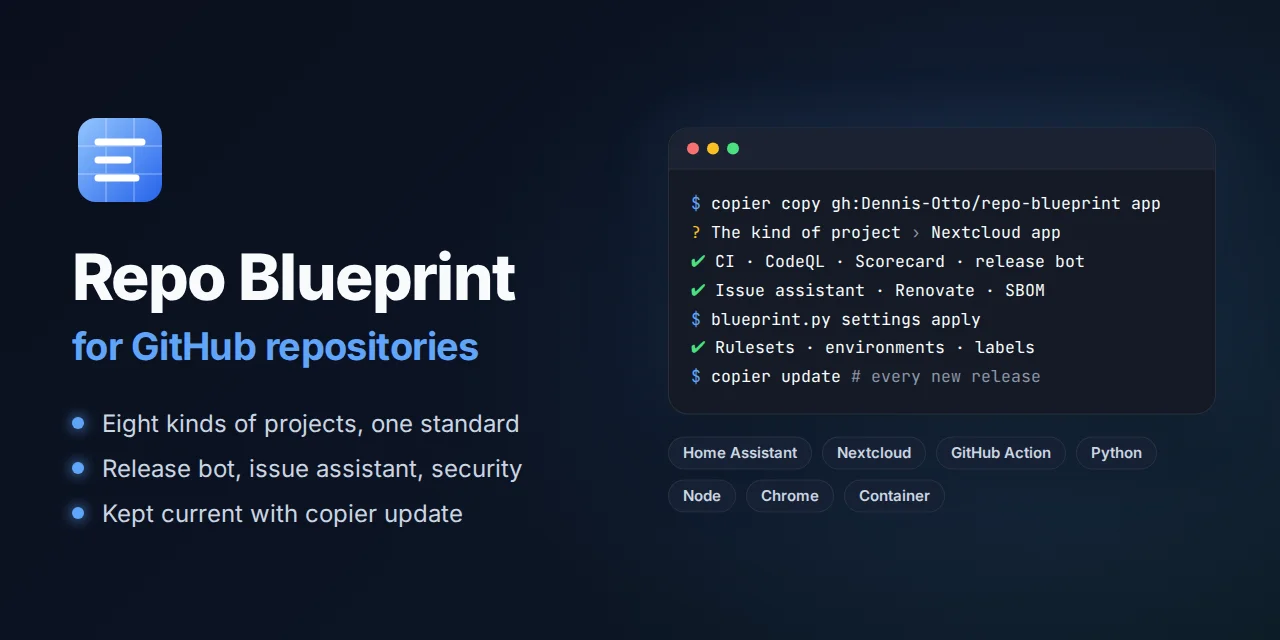
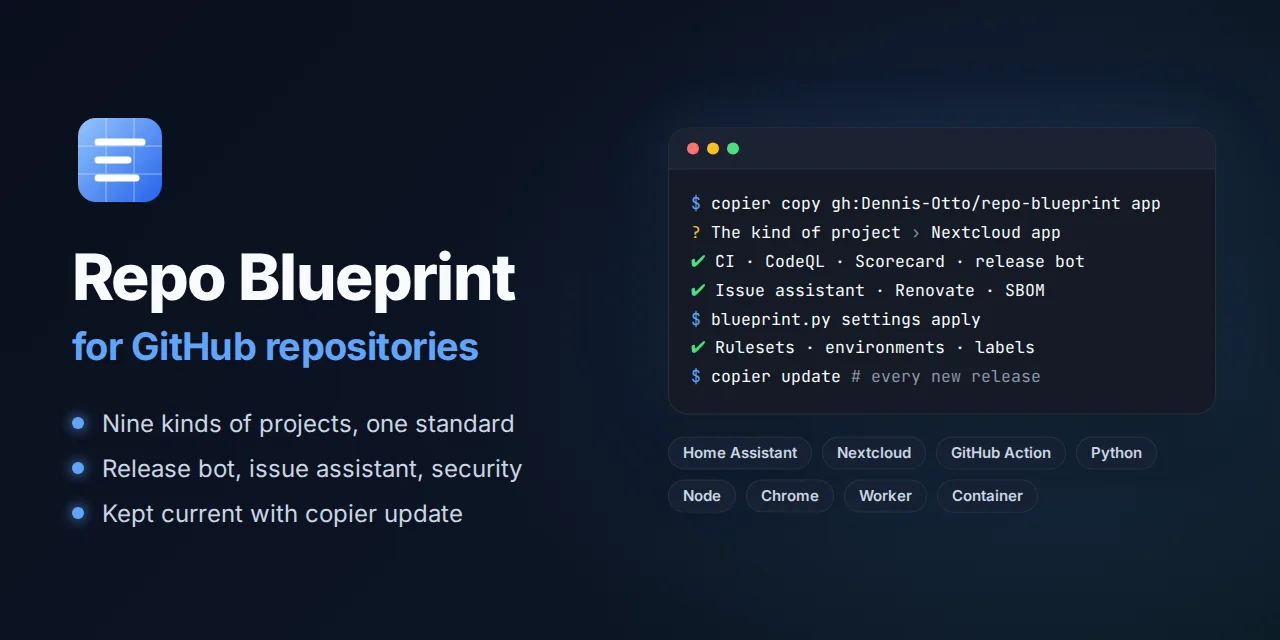
fix: skip Cloudflare's own install and keep a Worker's prerelease off traffic
- docs/releases.md sets the build variable SKIP_DEPENDENCY_INSTALL=1, so
  Workers Builds installs only with npm ci --ignore-scripts; npm run deploy
  warns when it is missing.
- A prerelease is uploaded as a version without traffic, tagged vX.Y.Z-beta.N.
- The checklist names the Cloudflare set-up as a step it can't tick off.
- The rendered Renovate config of a Worker moves Vitest and its coverage
  provider together on a major version.
- The guide names the files of a Worker for an existing repository; the kind
  pages show how a test gives the Worker a secret.
- docs/images/social-preview.webp re-rendered from the new social preview;
  release.yml names cloudflare-workers among the deliveries.

Changed region(s): [[0.0625, 0.625, 0.4062, 0.6875], [0.6562, 0.75, 0.8125, 0.7812]]

diff --git a/tests/test_template.py b/tests/test_template.py
@@ -7337,6 +7337,8 @@ def test_renovate_keeps_every_project_current(
     # The project's file extends the blueprint's, so that its own rules come last.
     assert '"local>Dennis-Otto/demo-project//.github/renovate-blueprint.json5"' in entry
     rules = (project / ".github/renovate-blueprint.json5").read_text(encoding="utf-8")
+    # Vitest and its coverage provider move to a new major version together.
+    assert ('groupName: "Vitest"' in rules) == (kind == "cloudflare-worker")
     for setting in (
         'minimumReleaseAge: "7 days"',
         "platformAutomerge: true",
@@ -13408,6 +13410,8 @@ def test_only_cloudflare_builds_and_deploys_a_worker(
         "`npm ci --ignore-scripts`",
         "`npm run deploy`",
         "npx wrangler secret put NAME",
+        "`SKIP_DEPENDENCY_INSTALL`",
+        "becomes a version without traffic",
     ):
         assert step in text, step
     assert "Chrome" not in text
@@ -13483,6 +13487,7 @@ ON_MAIN = {
     "WORKERS_CI": "1",
     "WORKERS_CI_BRANCH": "main",
     "WORKERS_CI_COMMIT_SHA": "0123456789abcdef0123456789abcdef01234567",
+    "SKIP_DEPENDENCY_INSTALL": "1",
 }
 DEPLOY = ["--no", "--", "wrangler", "deploy", "--tag"]
 UPLOAD = ["--no", "--", "wrangler", "versions", "upload", "--message"]
@@ -13494,8 +13499,8 @@ LONG = "feat: " + "a" * 120
 @pytest.mark.parametrize(
     ("subject", "version", "variables", "called", "said"),
     [
-        # The merge of a release pull request goes live, also a prerelease, and also
-        # one whose title names the branch of release-please as its scope.
+        # The merge of a release pull request goes live, also one whose title names
+        # the branch of release-please as its scope.
         (
             "chore: release 1.2.3 (#40)",
             "1.2.3",
@@ -13504,11 +13509,29 @@ LONG = "feat: " + "a" * 120
             "is the release 1.2.3: it goes live",
         ),
         (
+            "chore(main): release 1.3.0 (#43)",
+            "1.3.0",
+            ON_MAIN,
+            [*DEPLOY, "v1.3.0", "--message", "Release 1.3.0"],
+            "it goes live",
+        ),
+        # A prerelease becomes a version without traffic, to try it first.
+        (
             "chore(main): release 1.3.0-beta.2",
             "1.3.0-beta.2",
             ON_MAIN,
-            [*DEPLOY, "v1.3.0-beta.2", "--message", "Release 1.3.0-beta.2"],
-            "it goes live",
+            [
+                "--no",
+                "--",
+                "wrangler",
+                "versions",
+                "upload",
+                "--tag",
+                "v1.3.0-beta.2",
+                "--message",
+                "Prerelease 1.3.0-beta.2",
+            ],
+            "is the prerelease 1.3.0-beta.2: it becomes a version without traffic",
         ),
         # Every other commit becomes a version without traffic, with the reason.
         (
@@ -13535,7 +13558,7 @@ LONG = "feat: " + "a" * 120
         (
             "chore: release 1.2.3 (#40)",
             "1.2.3",
-            {"WORKERS_CI": "1"},
+            {"WORKERS_CI": "1", "SKIP_DEPENDENCY_INSTALL": "true"},
             [*UPLOAD, "chore: release 1.2.3 (#40)"],
             "Workers Builds named no branch",
         ),
@@ -13571,6 +13594,31 @@ def test_workers_builds_deploys_only_the_commit_of_a_release(
     assert done.returncode == 0, done.stderr
     assert arguments == called
     assert said in done.stdout
+    assert "SKIP_DEPENDENCY_INSTALL" not in done.stderr
+
+
+@pytest.mark.skipif(BASH is None or NODE_JS is None, reason="the script runs in bash")
+@pytest.mark.parametrize("skip", ["", "0", "true"])
+def test_workers_builds_warns_when_cloudflare_installs_with_scripts(
+    projects: dict[str, Path], tmp_path: Path, skip: str
+) -> None:
+    # Cloudflare's own install runs install scripts unless the set-up skipped it.
+    folder = tmp_path / "worker"
+    (folder / "scripts").mkdir(parents=True)
+    shutil.copy2(
+        projects["cloudflare-worker"] / "scripts/deploy-worker.sh",
+        folder / "scripts/deploy-worker.sh",
+    )
+    variables = {**ON_MAIN, "SKIP_DEPENDENCY_INSTALL": skip}
+
+    done, arguments = deploy_worker(
+        folder, "chore: release 1.2.3 (#40)", "1.2.3", **variables
+    )
+
+    assert done.returncode == 0, done.stderr
+    assert arguments[:4] == DEPLOY[:4]
+    warned = "::warning::Set the build variable SKIP_DEPENDENCY_INSTALL to 1"
+    assert (warned in done.stderr) == (skip != "true")
 
 
 @pytest.mark.skipif(BASH is None or NODE_JS is None, reason="the script runs in bash")

diff --git a/blueprint/checklist.py b/blueprint/checklist.py
@@ -465,6 +465,14 @@ def checklist(
             "https://nextcloudappstore.readthedocs.io/en/latest/developer.html\n"
             "then run Actions -> Register the app with the id of the app.",
         ),
+        "cloudflare-workers": (
+            "Cloudflare: the Worker created with a first npx wrangler deploy, and the"
+            " repository connected with Workers Builds (build command"
+            " `npm ci --ignore-scripts`, SKIP_DEPENDENCY_INSTALL=1, deploy"
+            " command npm run deploy)",
+            f"https://github.com/{repo}/blob/main/docs/releases.md"
+            "#set-up-cloudflare-once",
+        ),
     }
     if target == "hacs":
         steps.append(listing(settings, drift))

diff --git a/tests/test_blueprint.py b/tests/test_blueprint.py
@@ -3486,6 +3486,7 @@ def test_the_checklist_tells_secrets_and_the_community_profile_apart(
         ("ghcr", "package of the image is public"),
         ("hacs", "HACS default repositories"),
         ("nextcloud-appstore", "App certificate"),
+        ("cloudflare-workers", "connected with Workers Builds"),
         ("none", None),
     ],
 )

diff --git a/docs/decisions/0115-cloudflare-deploys-a-worker-from-its-release-with-workers-builds.md b/docs/decisions/0115-cloudflare-deploys-a-worker-from-its-release-with-workers-builds.md
@@ -24,11 +24,11 @@ Option 4.
 
 - **The kind** `cloudflare-worker` takes the tools of Node: the same `check (node)`, Biome and tsc, on its own lock file in `stacks/worker/`, with Wrangler, Vitest and the [Vitest integration of Cloudflare](https://developers.cloudflare.com/workers/testing/vitest-integration/). `wrangler.jsonc`, with the name, the main module, the compatibility date and the bindings of the Worker, belongs to the project; `vitest.config.ts`, `tsconfig.json` and `scripts/deploy-worker.sh` to the blueprint. Its `package.json` is private.
 - **The checks** of `scripts/check.sh` run the tests in workerd, with every line, branch and function covered and `lcov.info` for the PR coach, and tsc on the types that `wrangler types` writes from `wrangler.jsonc` into `worker-configuration.d.ts`, which git ignores, so they never go stale. The step *Worker* bundles the Worker with Wrangler as Cloudflare does, with `wrangler deploy --dry-run`, which needs no sign-in and uploads nothing. Wrangler sends no telemetry from the checks.
-- **The deploy** is Workers Builds, with the build command `npm ci --ignore-scripts` and the deploy command `npm run deploy`. `scripts/deploy-worker.sh` deploys a commit of `main` only when its subject is that of a release pull request, `chore: release X.Y.Z`, and `package.json` has the version X.Y.Z; it tags the deployment `vX.Y.Z`. It uploads every other commit with `wrangler versions upload`, as a version without traffic tagged with its commit, and says why. What it can't tell, such as a build without the history of its commit, it uploads as well, so it never deploys by mistake. Outside Workers Builds it refuses. Builds of other branches stay off, since the checks of each pull request run in GitHub.
+- **The deploy** is Workers Builds, with the build command `npm ci --ignore-scripts`, the build variable `SKIP_DEPENDENCY_INSTALL=1`, which stops Cloudflare's own install with the install scripts of every package, and the deploy command `npm run deploy`, which warns when that variable is missing. `scripts/deploy-worker.sh` deploys a commit of `main` only when its subject is that of a release pull request, `chore: release X.Y.Z`, and `package.json` has the version X.Y.Z; it tags the deployment `vX.Y.Z`. A prerelease is uploaded as a version without traffic, tagged `vX.Y.Z-beta.N`, as every other kind keeps a prerelease away from its users. It uploads every other commit with `wrangler versions upload`, as a version without traffic tagged with its commit, and says why. What it can't tell, such as a build without the history of its commit, it uploads as well, so it never deploys by mistake. Outside Workers Builds it refuses. Builds of other branches stay off, since the checks of each pull request run in GitHub.
 - **The release** is the release of every kind: release-please, the signed tag and the SBOMs and provenance of the isolated build, which describes the files of the tag. The tag and the deployment name the same commit and the same version.
 - **The secrets** of a Worker live in Cloudflare, set with `wrangler secret put`, and those of `wrangler dev` in `.dev.vars`, which git ignores. The docs of the kind and of each project say so.
 - **What only a person can do,** the account of Cloudflare, the first deployment that creates the Worker and the connection of the repository, is in `docs/releases.md` of the project.
 
 ## Consequences
 
-A Worker of the blueprint has no key of Cloudflare in GitHub, and what serves its requests is the code of its latest release. A merge reaches Cloudflare as a version that the maintainer can try first, and goes live with the next release, as a package of the other kinds reaches its users. Cloudflare builds the release itself, so the provenance of the release describes the tag rather than the bundle that runs; both come from the same commit and the same lock file. A Worker that has to go live with every merge changes its deploy command to `npx wrangler deploy` in the dashboard of Cloudflare. GitHub can't see whether the connection to Cloudflare exists, so the checklist names no step for it yet. Should Cloudflare offer a sign-in with the OIDC token of GitHub, or tokens limited to one Worker, a deploy from the release workflow becomes the better way, as for the Chrome Web Store ([decision 0085](0085-a-chrome-extension-reaches-the-store-with-the-zip-that-its-release-attests.md)).
+A Worker of the blueprint has no key of Cloudflare in GitHub, and what serves its requests is the code of its latest release. A merge reaches Cloudflare as a version that the maintainer can try first, and goes live with the next release, as a package of the other kinds reaches its users. Cloudflare builds the release itself, so the provenance of the release describes the tag rather than the bundle that runs; both come from the same commit and the same lock file. A Worker that has to go live with every merge changes its deploy command to `npx wrangler deploy` in the dashboard of Cloudflare. GitHub can't see whether the connection to Cloudflare exists, so the checklist names it as a step it can't tick off, as it does for PyPI and HACS. Should Cloudflare offer a sign-in with the OIDC token of GitHub, or tokens limited to one Worker, a deploy from the release workflow becomes the better way, as for the Chrome Web Store ([decision 0085](0085-a-chrome-extension-reaches-the-store-with-the-zip-that-its-release-attests.md)).

diff --git a/docs/kinds/cloudflare-worker.de.md b/docs/kinds/cloudflare-worker.de.md
@@ -19,7 +19,7 @@ Mit [uv](https://docs.astral.sh/uv/) und der GitHub CLI, wie [der Schnellstart](
 ## Was du bekommst
 
 - **Das Beispiel:** ein Worker in `src/index.ts`, der `GET /?name=Ada` mit einem Gruß in JSON beantwortet und jeden anderen Pfad und jede andere Methode ablehnt, der Code, den er aufruft, in `src/greet.ts`, und seine Tests in `test/`. `wrangler.jsonc` hält den Namen des Workers, sein Hauptmodul, sein Kompatibilitätsdatum und seine Bindings. Ersetze es durch den echten Worker; seine Tests zeigen, wie.
-- **Tests in der Laufzeitumgebung von Cloudflare:** Vitest führt sie in workerd aus, mit den Bindings aus `wrangler.jsonc`, über die [Vitest-Integration von Cloudflare](https://developers.cloudflare.com/workers/testing/vitest-integration/), und jede Anfrage erreicht den Worker, wie eine aus dem Internet es täte. `npm run dev` startet ihn auf deinem Rechner.
+- **Tests in der Laufzeitumgebung von Cloudflare:** Vitest führt sie in workerd aus, mit den Bindings aus `wrangler.jsonc`, über die [Vitest-Integration von Cloudflare](https://developers.cloudflare.com/workers/testing/vitest-integration/), und jede Anfrage erreicht den Worker, wie eine aus dem Internet es täte. Ein Geheimnis liegt nur bei Cloudflare, also ruft ein Test, der eines braucht, den Worker aus `src/index.ts` mit einem eigenen `env` auf: `worker.fetch(request, { ...env, TOKEN: "test" }, createExecutionContext())`, mit `env` und `createExecutionContext` aus `cloudflare:test`. `npm run dev` startet ihn auf deinem Rechner.
 - **Die Schritte von `scripts/check.sh` für diese Art,** auf deinem Rechner wie in der CI: die Lock-Datei, Biome, tsc auf den Typen, die Wrangler aus `wrangler.jsonc` schreibt, die Tests mit jeder Zeile, jedem Zweig und jeder Funktion abgedeckt, und dann *Worker*, der den Worker mit Wrangler bündelt, wie Cloudflare es tut, ohne Upload und ohne Anmeldung.
 - **Workflows dieser Art:** das neueste Node auf `main` (`newest-node.yml`); Cloudflare baut und liefert den Worker selbst aus, also hält kein Workflow einen Schlüssel von Cloudflare.
 - **Die Schritte jeder Art:** die Textdateien, die Diagramme, die Seiten in einer Spalte, die Dateien des Projekts, die Fragmente des Changelogs, die akzeptierten Advisories, die Lock-Dateien, die Version, die Git-Hooks, ShellCheck für die Shell-Skripte und der strenge Build der Website.
@@ -47,11 +47,13 @@ Kein Schlüssel von Cloudflare liegt in GitHub: Ein API-Token von Cloudflare lä
 
 `python3 .github/blueprint.py checklist` hakt jeden Schritt ab, den es sehen kann, und nennt den Rest, jeweils mit seinem Link: die Release-App des Eigentümers mit ihrem privaten Schlüssel, wie [dein eigenes Konto](../own-account.md) zeigt, das Token des Issue-Assistenten, außer seine KI ist aus, OpenSSF Best Practices, die REUSE-API und die Social Preview.
 
-Diese Art bringt keinen eigenen Schritt dazu. Ihre Schritte geschehen bei Cloudflare, das GitHub nicht sehen kann:
+Diese Art bringt diese Schritte dazu:
 
 - Den Worker mit seiner ersten Auslieferung von deinem Rechner anlegen, `npx wrangler login` und `npx wrangler deploy`, wobei die Anmeldung dort bleibt.
-- Das Repository im Dashboard von Cloudflare verbinden, unter *Settings* und *Builds* des Workers, mit der App von Cloudflare nur für dieses Repository installiert, dem Build-Befehl `npm ci --ignore-scripts` und dem Deploy-Befehl `npm run deploy`.
+- Das Repository im Dashboard von Cloudflare verbinden, unter *Settings* und *Builds* des Workers, mit der App von Cloudflare nur für dieses Repository installiert, dem Build-Befehl `npm ci --ignore-scripts`, der Build-Variable `SKIP_DEPENDENCY_INSTALL` auf `1`, damit Cloudflare kein Installationsskript eines Pakets ausführt, und dem Deploy-Befehl `npm run deploy`.
 - Jedes Geheimnis des Workers mit `npx wrangler secret put NAME` bei Cloudflare hinterlegen.
+
+Sie geschehen bei Cloudflare, also nennt die Checkliste die ersten beiden als einen Schritt, den sie nicht abhaken kann.
 
 `docs/releases.md` des neuen Repositorys beschreibt jeden Schritt, wie man ein Release zurückrollt und was zu tun ist, wenn ein Build fehlschlägt.
 

diff --git a/docs/kinds/cloudflare-worker.md b/docs/kinds/cloudflare-worker.md
@@ -19,7 +19,7 @@ With [uv](https://docs.astral.sh/uv/) and the GitHub CLI, as [the quick start](.
 ## What you get
 
 - **The example:** a Worker in `src/index.ts`, which answers `GET /?name=Ada` with a greeting in JSON and refuses every other path and method, the code that it calls in `src/greet.ts`, and its tests in `test/`. `wrangler.jsonc` holds the name of the Worker, its main module, its compatibility date and its bindings. Replace it with the real Worker; its tests show how.
-- **Tests in the runtime of Cloudflare:** Vitest runs them in workerd with the bindings of `wrangler.jsonc`, through the [Vitest integration of Cloudflare](https://developers.cloudflare.com/workers/testing/vitest-integration/), and each request reaches the Worker as one from the internet would. `npm run dev` runs it on your machine.
+- **Tests in the runtime of Cloudflare:** Vitest runs them in workerd with the bindings of `wrangler.jsonc`, through the [Vitest integration of Cloudflare](https://developers.cloudflare.com/workers/testing/vitest-integration/), and each request reaches the Worker as one from the internet would. A secret lives only in Cloudflare, so a test that needs one calls the Worker of `src/index.ts` with an `env` of its own: `worker.fetch(request, { ...env, TOKEN: "test" }, createExecutionContext())`, with `env` and `createExecutionContext` from `cloudflare:test`. `npm run dev` runs it on your machine.
 - **The steps of `scripts/check.sh` for this kind,** the same on your machine and in the CI: the lock file, Biome, tsc on the types that Wrangler writes from `wrangler.jsonc`, the tests with every line, branch and function covered, and then *Worker*, which bundles the Worker with Wrangler as Cloudflare does, without an upload or a sign-in.
 - **Workflows of this kind:** the newest Node on `main` (`newest-node.yml`); Cloudflare builds and deploys the Worker itself, so no workflow holds a key of Cloudflare.
 - **The steps of every kind:** the text files, the diagrams, the pages in one column, the files of the project, the fragments of the changelog, the accepted advisories, the lock files, the version, the Git hooks, ShellCheck for the shell scripts and the strict build of the website.
@@ -47,11 +47,13 @@ No key of Cloudflare is stored in GitHub: an API token of Cloudflare can't be li
 
 `python3 .github/blueprint.py checklist` ticks off each step that it can see and names the rest, each with its link: the release app of the owner with its private key, as [your own account](../own-account.md) shows, the token of the issue assistant unless its AI is off, OpenSSF Best Practices, the REUSE API and the social preview.
 
-This kind adds no step of its own. Its steps happen in Cloudflare, which GitHub can't see:
+This kind adds these steps:
 
 - Create the Worker with its first deployment from your machine, `npx wrangler login` and `npx wrangler deploy`, which keeps the sign-in there.
-- Connect the repository in the dashboard of Cloudflare, under *Settings* and *Builds* of the Worker, with the app of Cloudflare installed for this repository only, the build command `npm ci --ignore-scripts` and the deploy command `npm run deploy`.
+- Connect the repository in the dashboard of Cloudflare, under *Settings* and *Builds* of the Worker, with the app of Cloudflare installed for this repository only, the build command `npm ci --ignore-scripts`, the build variable `SKIP_DEPENDENCY_INSTALL` set to `1`, so that Cloudflare runs no install script of a package, and the deploy command `npm run deploy`.
 - Put each secret of the Worker into Cloudflare with `npx wrangler secret put NAME`.
+
+They happen in Cloudflare, so the checklist names the first two as one step that it can't tick off.
 
 `docs/releases.md` of the new repository describes each step, how to roll a release back, and what to do when a build fails.
 

diff --git a/docs/reference/variables.md b/docs/reference/variables.md
@@ -152,7 +152,7 @@ What the workflows say of it:
 
 - `publish-store.yml`: It runs where the repository variable `PUBLISH_TO` is chrome-web-store: in a repository of the kind chrome-extension, never in the blueprint or a fork.
 - `publish-store.yml`: A fork has none of the variables of the repository, so `PUBLISH_TO` keeps it out too.
-- `release.yml`: The jobs below attach the package, its SBOMs (SPDX and CycloneDX), the licenses of its third-party components, the advisories that don't affect it (OpenVEX) and its signed provenance, write the notes, make the release public, announce it in the discussions, and then deliver it where the repository variable `PUBLISH_TO` says: pypi, npm, ghcr, hacs, nextcloud-appstore, github-action, chrome-web-store, which publish-store.yml takes over once this workflow has passed, or none.
+- `release.yml`: The jobs below attach the package, its SBOMs (SPDX and CycloneDX), the licenses of its third-party components, the advisories that don't affect it (OpenVEX) and its signed provenance, write the notes, make the release public, announce it in the discussions, and then deliver it where the repository variable `PUBLISH_TO` says: pypi, npm, ghcr, hacs, nextcloud-appstore, github-action, chrome-web-store, which publish-store.yml takes over once this workflow has passed, cloudflare-workers, which Workers Builds deploys outside GitHub, or none.
 - `verify-release.yml`: It checks a release the way its users can: every asset carries the signed provenance of this repository's release workflow, both in GitHub and in the attached bundle; the SBOMs are attached and describe what the release ships, by its name and version; the release is immutable and its commit signed; and where the repository variable `PUBLISH_TO` delivers it, the same release is there.
 
 ### `RELEASE_APP`

diff --git a/docs/guide.de.md b/docs/guide.de.md
@@ -106,5 +106,6 @@ Die Konfiguration der Prüfungen gehört dem Blueprint und sucht den Code dort, 
 | Nextcloud-App | `lib/` | PHPUnit-Tests in `tests/Unit/` | `psalm.xml` und `phpunit.xml`, mit den `tests/bootstrap.php` und `tests/stubs/`, die sie laden |
 | Node-Paket | `src/`, gebaut nach `dist/` | `test/`, von `tsconfig.json` typgeprüft; das `npm test` eines neuen Projekts führt `test/**/*.test.ts` aus | `tsconfig.json` und `tsconfig.build.json`, die `typescript` und `@types/node` in der `package.json` des Projekts brauchen, und `biome.jsonc`, dessen Schritt *Lint and format* läuft, sobald dort auch `@biomejs/biome` steht |
 | Chrome-Erweiterung | `src/`, gebaut nach `extension/lib/`; `extension/` mit `manifest.json` und `_locales/` | `test/`, wie bei einem Node-Paket | die Dateien eines Node-Pakets, wobei `tsconfig.build.json` nach `extension/lib/` schreibt; der Schritt *Extension* braucht `extension/manifest.json`, `store/permissions.json` und eine `store/listing.<Sprache>.md` für jede Sprache |
+| Cloudflare Worker | `src/`, mit dem Hauptmodul, das `wrangler.jsonc` (oder `wrangler.json`, `wrangler.toml`) nennt | `test/**/*.test.ts`, ausgeführt in workerd | `vitest.config.ts` und `tsconfig.json`, die `wrangler`, `vitest`, `@vitest/coverage-istanbul` und `@cloudflare/vitest-plugin` in `package.json` brauchen und das Skript `typecheck` als `wrangler types && tsc`; `scripts/deploy-worker.sh`, den Deploy-Befehl von Workers Builds |
 
 Die anderen Arten legen diese Orte in eigenen Dateien fest, etwa in `pyproject.toml`. Was in `tests/` liegt, gehört dem Projekt: Die Kopie und jedes Update ergänzen dort nur die Dateien, die fehlen, und eine App mit eigenem Bootstrap behält ihn.

diff --git a/docs/guide.md b/docs/guide.md
@@ -106,5 +106,6 @@ The configuration of the checks belongs to the blueprint and looks for the code 
 | Nextcloud app | `lib/` | PHPUnit tests in `tests/Unit/` | `psalm.xml` and `phpunit.xml`, with the `tests/bootstrap.php` and `tests/stubs/` that they load |
 | Node package | `src/`, built into `dist/` | `test/`, typechecked by `tsconfig.json`; the `npm test` of a new project runs `test/**/*.test.ts` | `tsconfig.json` and `tsconfig.build.json`, which need `typescript` and `@types/node` in the `package.json` of the project, and `biome.jsonc`, whose step *Lint and format* runs once `@biomejs/biome` is there too |
 | Chrome extension | `src/`, built into `extension/lib/`; `extension/` with `manifest.json` and `_locales/` | `test/`, as for a Node package | the files of a Node package, with `tsconfig.build.json` writing into `extension/lib/`; the step *Extension* needs `extension/manifest.json`, `store/permissions.json` and a `store/listing.<language>.md` for each language |
+| Cloudflare Worker | `src/`, with the main module that `wrangler.jsonc` (or `wrangler.json`, `wrangler.toml`) names | `test/**/*.test.ts`, run in workerd | `vitest.config.ts` and `tsconfig.json`, which need `wrangler`, `vitest`, `@vitest/coverage-istanbul` and `@cloudflare/vitest-plugin` in `package.json` and the script `typecheck` as `wrangler types && tsc`; `scripts/deploy-worker.sh`, the deploy command of Workers Builds |
 
 The other kinds set these places in files of their own, such as `pyproject.toml`. What lies in `tests/` belongs to the project: the copy and every update add only the files that are missing there, so an app with its own bootstrap keeps it.
